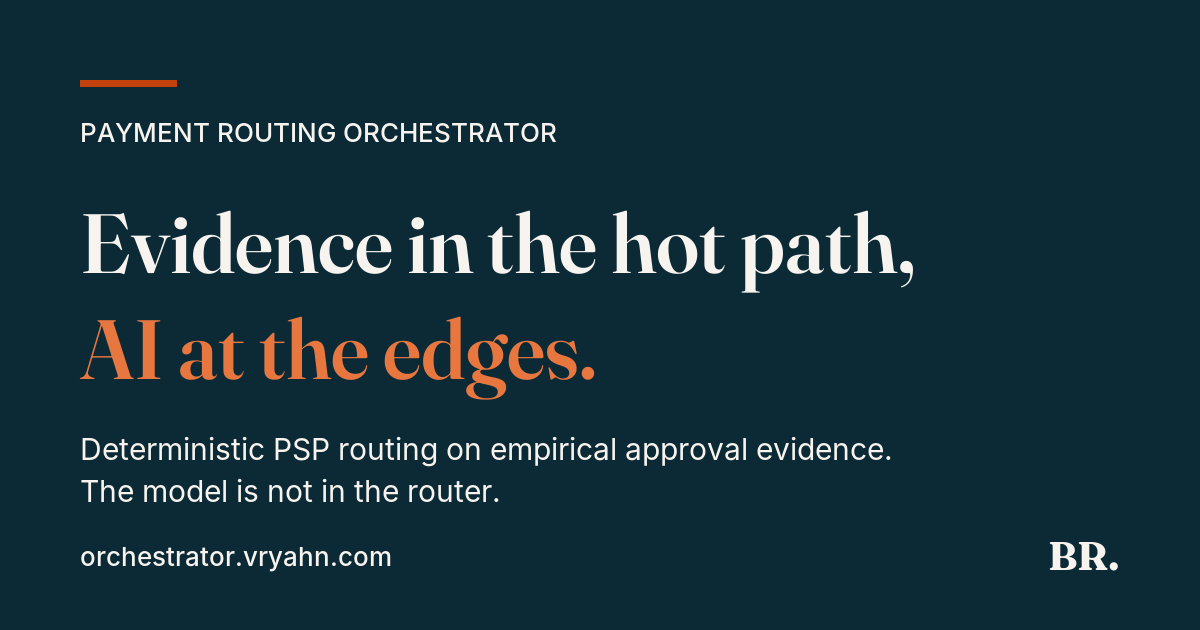
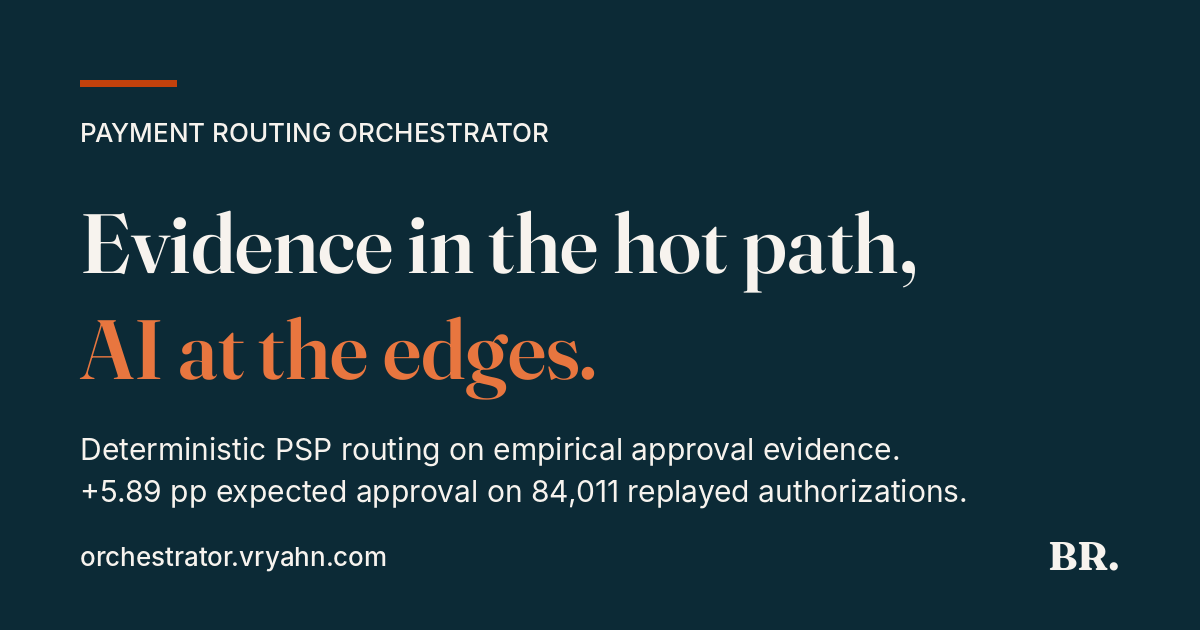
feat(og): swap thesis line for the approval evidence number
"AI at the edges" already carries the thesis; the second lede line
now spends its space on the headline number instead of repeating it.

diff --git a/make_og.py b/make_og.py
@@ -36,7 +36,7 @@ d.text((80, 430),
        "Deterministic PSP routing on empirical approval evidence.",
        font=lede, fill=ON_DARK)
 d.text((80, 472),
-       "The model is not in the router.",
+       "+5.89 pp expected approval on 84,011 replayed authorizations.",
        font=lede, fill=ON_DARK)
 
 foot = ImageFont.truetype(INTER_M, 26)
